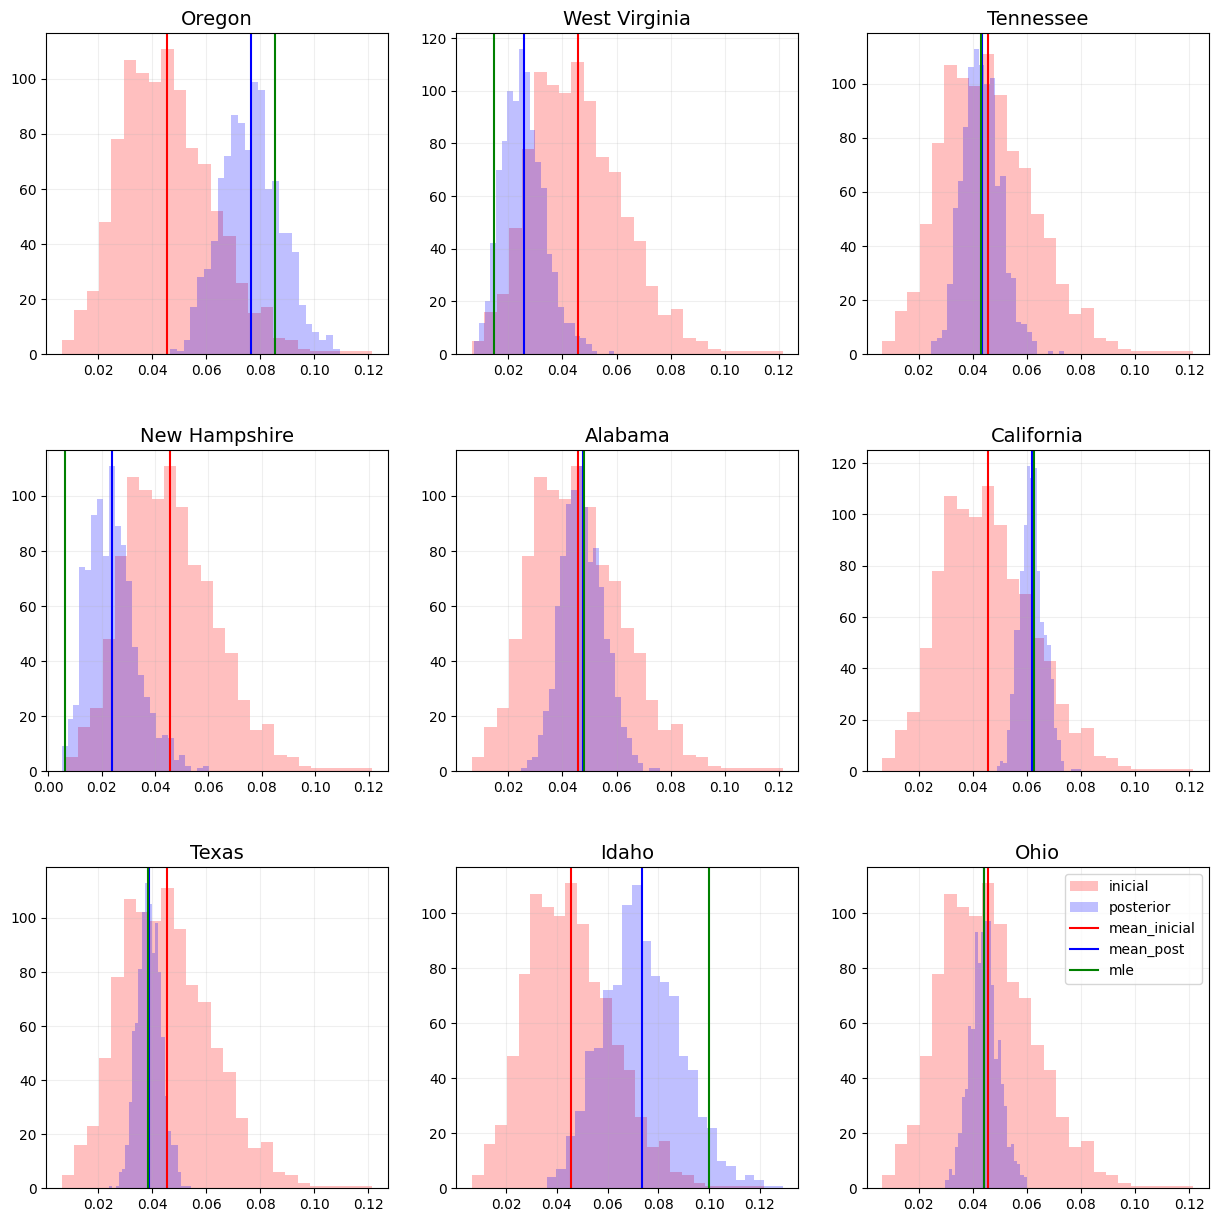
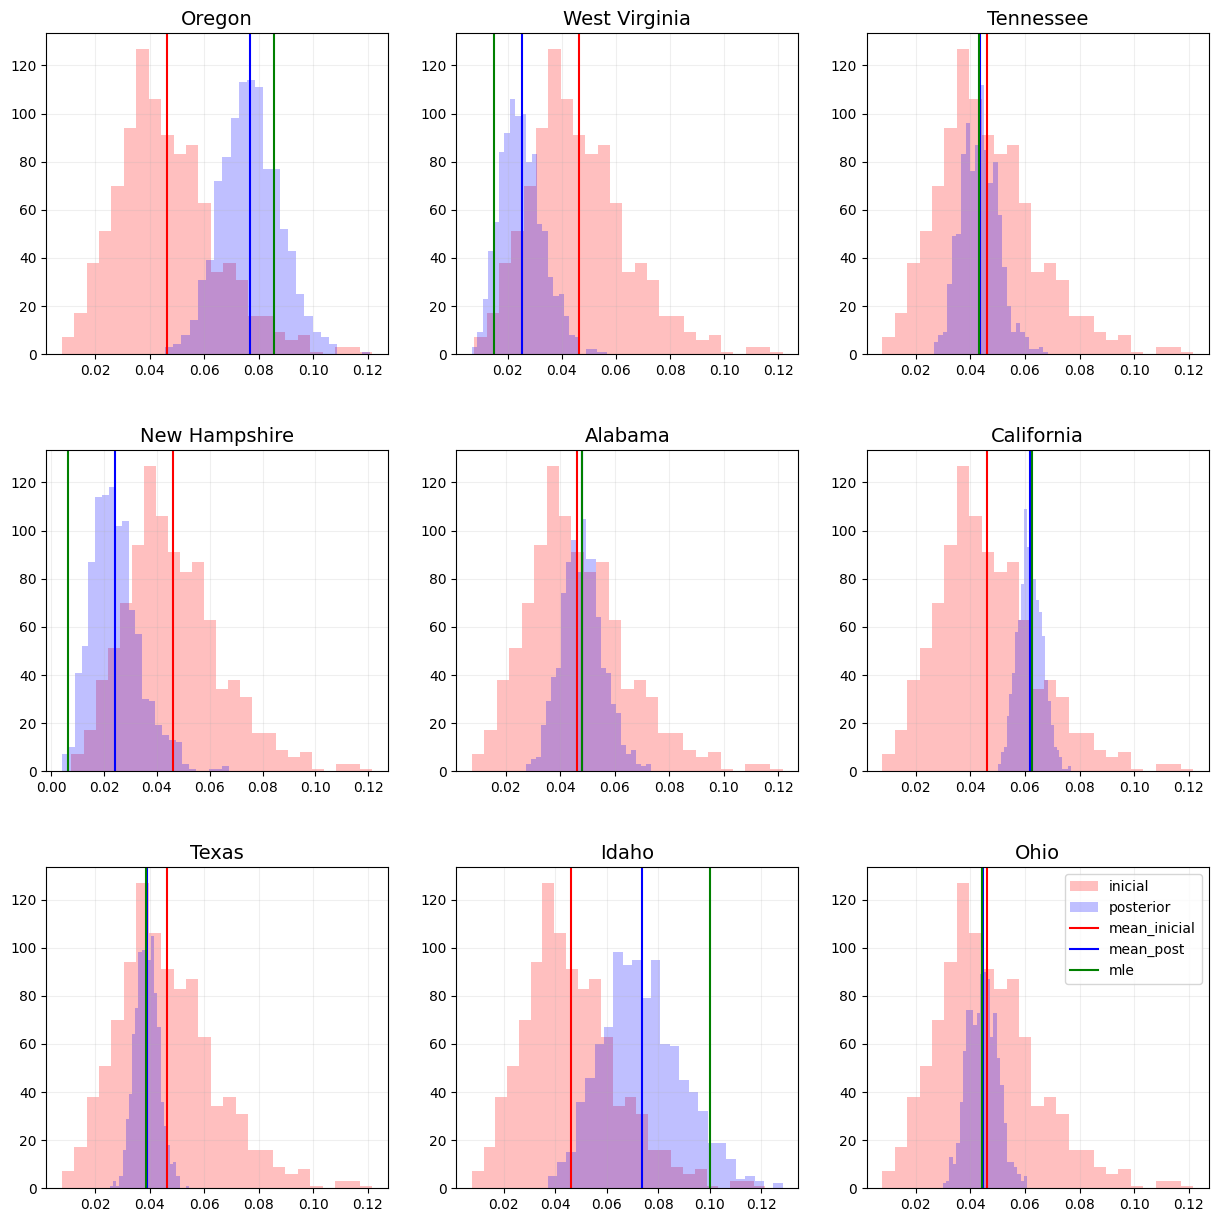
HTML render

diff --git a/bayes-first-steps.html b/bayes-first-steps.html
@@ -334,12 +334,15 @@ code span.wa { color: #60a0b0; font-weight: bold; font-style: italic; } /* Warni
 </div>
 </div>
 <div style="text-align: justify">
-<p>Antes de hablar con detalle de los aspectos interesantes de la visualización anterior, primero hay que aclarar que si bajo este enfoque existiera correlación entre ambas características, entonces se esperaría tener una tendicia creciente hacia arriba a la derecha, es decir, a mayor porcentaje de votos por Obama mayor porcentaje de personas <em>very liberal</em>. Esto, como lo hace evidente la gráfica, no sucede.</p>
+<p>Antes de hablar con detalle de los aspectos interesantes de la visualización anterior, primero hay que aclarar que si bajo este enfoque existiera correlación entre ambas características, entonces se esperaría tener una tendencia creciente hacia arriba a la derecha, es decir, a mayor porcentaje de votos por Obama mayor porcentaje de personas <em>very liberal</em>. Esto, como lo hace evidente la gráfica, no sucede.</p>
 <p>Dicho lo anterior, se pueden identificar claramente dos regiones tomando como referencia un <span class="math inline">\(50\%\)</span> de votos por Obama. Aproximadamente, desde este valor en adelante existe tendencia creciente en los votos que recibió el candidato, sin embargo, en los estados por debajo de esta referencia, la tendencia es contraria.</p>
 <p>Adicionalmente, también existen estados que rompen por completo las aparentes tendencias en dichas regiones. Esto se hace especialmente evidente en estados como Idaho, que presenta la mayor proporción de <em>very liberal</em> pero que en el resultado de las elecciones tuvo menos del <span class="math inline">\(37\%\)</span> de votantes por Obama; o como New Hampshire, que presenta la menor proporción de <em>very liberal</em> de todas, pero que en la elección tuvo casi el <span class="math inline">\(55\%\)</span> de votantes a favor del candidato</p>
 </div>
 <section id="enfoque-bayesiano" class="level2">
 <h2 class="anchored" data-anchor-id="enfoque-bayesiano">Enfoque Bayesiano</h2>
+<p>Habiendo hablado del enfoque frecuentista, es tiempo de centrarse en el mismo análisis pero desde un punto de vista bayesiano.</p>
+<p>Estima el mismo porcentaje usando inferencia bayesiana, en particular la familia conjugada binomial-beta. Deberás estimar la proporción de manera independiente para cada estado, sin embargo, utilizarás la misma inicial a lo largo de todos.</p>
+<p>Nota: Este proceso para obtener los parámetros de la incial es razonable para este ejercicio, sin embargo, un modelo jerárquico sería la manera de formalizar este acercamiento y se estudiará en próximas materias.</p>
 <div class="cell" data-execution_count="5">
 <details>
 <summary>Code</summary>
@@ -434,7 +437,7 @@ code span.wa { color: #60a0b0; font-weight: bold; font-style: italic; } /* Warni
 </ul>
 <p>Obtenemos el estimador de la posterior para todos los estados</p>
 </div>
-<div class="cell" data-execution_count="9">
+<div class="cell">
 <details>
 <summary>Code</summary>
 <div class="sourceCode cell-code" id="cb9"><pre class="sourceCode python code-with-copy"><code class="sourceCode python"><span id="cb9-1"><a href="#cb9-1" aria-hidden="true" tabindex="-1"></a><span class="co">#Se crea columna vacía en dataframe</span></span>
@@ -450,7 +453,7 @@ code span.wa { color: #60a0b0; font-weight: bold; font-style: italic; } /* Warni
 </details>
 </div>
 <p>Comparamos el desplazamiento del estimador MLE provocado por la distribucón inicial bajo un enfoque bayesiano</p>
-<div class="cell" data-execution_count="10">
+<div class="cell">
 <details>
 <summary>Code</summary>
 <div class="sourceCode cell-code" id="cb10"><pre class="sourceCode python code-with-copy"><code class="sourceCode python"><span id="cb10-1"><a href="#cb10-1" aria-hidden="true" tabindex="-1"></a>plt.figure(figsize<span class="op">=</span>plot_settings[<span class="st">'figsize'</span>])</span>
@@ -470,12 +473,9 @@ code span.wa { color: #60a0b0; font-weight: bold; font-style: italic; } /* Warni
 <span id="cb10-15"><a href="#cb10-15" aria-hidden="true" tabindex="-1"></a></span>
 <span id="cb10-16"><a href="#cb10-16" aria-hidden="true" tabindex="-1"></a>plt.show()</span></code><button title="Copy to Clipboard" class="code-copy-button"><i class="bi"></i></button></pre></div>
 </details>
-<div class="cell-output cell-output-display">
-<p><img src="bayes-first-steps_files/figure-html/cell-11-output-1.png" class="img-fluid"></p>
-</div>
 </div>
 <p>Nuevamente graficamos la proporción de votos que tuvo obama contra la proporción de <em>very liberal</em> por estado, en esta ocasión con los resultados del enfoque bayesiano.</p>
-<div class="cell" data-execution_count="11">
+<div class="cell">
 <details>
 <summary>Code</summary>
 <div class="sourceCode cell-code" id="cb11"><pre class="sourceCode python code-with-copy"><code class="sourceCode python"><span id="cb11-1"><a href="#cb11-1" aria-hidden="true" tabindex="-1"></a>plt.figure(figsize<span class="op">=</span>plot_settings[<span class="st">'figsize'</span>])</span>
@@ -490,9 +490,6 @@ code span.wa { color: #60a0b0; font-weight: bold; font-style: italic; } /* Warni
 <span id="cb11-10"><a href="#cb11-10" aria-hidden="true" tabindex="-1"></a></span>
 <span id="cb11-11"><a href="#cb11-11" aria-hidden="true" tabindex="-1"></a>plt.show()</span></code><button title="Copy to Clipboard" class="code-copy-button"><i class="bi"></i></button></pre></div>
 </details>
-<div class="cell-output cell-output-display">
-<p><img src="bayes-first-steps_files/figure-html/cell-12-output-1.png" class="img-fluid"></p>
-</div>
 </div>
 <ul>
 <li>Lo primero que notamos es que bajo este enfoque se reduce la dispersión de los puntos, manifestando un comportamiento relativamente más lineal que con el enfoque frecuentista.</li>
@@ -502,14 +499,14 @@ code span.wa { color: #60a0b0; font-weight: bold; font-style: italic; } /* Warni
 <section id="anexo-2" class="level2">
 <h2 class="anchored" data-anchor-id="anexo-2">Anexo 2</h2>
 <p>Utilizando el paquete de python <code>sympy</code> para cálculo simbólico, se obtuvieron las ecuaciones que resulven los parámetros <span class="math inline">\(a\)</span>, <span class="math inline">\(b\)</span> de una distribución conjugada beta-binomial dados los valores de <span class="math inline">\(\mu\)</span>, <span class="math inline">\(\sigma\)</span>.</p>
-<div class="cell" data-execution_count="12">
+<div class="cell">
 <details>
 <summary>Code</summary>
 <div class="sourceCode cell-code" id="cb12"><pre class="sourceCode python code-with-copy"><code class="sourceCode python"><span id="cb12-1"><a href="#cb12-1" aria-hidden="true" tabindex="-1"></a><span class="im">from</span> sympy <span class="im">import</span> symbols, Eq, solve</span>
 <span id="cb12-2"><a href="#cb12-2" aria-hidden="true" tabindex="-1"></a><span class="im">from</span> sympy.abc <span class="im">import</span> mu, sigma</span></code><button title="Copy to Clipboard" class="code-copy-button"><i class="bi"></i></button></pre></div>
 </details>
 </div>
-<div class="cell" data-execution_count="13">
+<div class="cell">
 <details>
 <summary>Code</summary>
 <div class="sourceCode cell-code" id="cb13"><pre class="sourceCode python code-with-copy"><code class="sourceCode python"><span id="cb13-1"><a href="#cb13-1" aria-hidden="true" tabindex="-1"></a>a, b, s2, m <span class="op">=</span> symbols(<span class="st">"a b sigma^2 mu"</span>)</span>
@@ -519,51 +516,31 @@ code span.wa { color: #60a0b0; font-weight: bold; font-style: italic; } /* Warni
 <span id="cb13-5"><a href="#cb13-5" aria-hidden="true" tabindex="-1"></a>solution <span class="op">=</span> solve((equation_1, equation_2), (a, b))</span></code><button title="Copy to Clipboard" class="code-copy-button"><i class="bi"></i></button></pre></div>
 </details>
 </div>
-<div class="cell" data-execution_count="14">
+<div class="cell">
 <details>
 <summary>Code</summary>
 <div class="sourceCode cell-code" id="cb14"><pre class="sourceCode python code-with-copy"><code class="sourceCode python"><span id="cb14-1"><a href="#cb14-1" aria-hidden="true" tabindex="-1"></a>equation_1</span></code><button title="Copy to Clipboard" class="code-copy-button"><i class="bi"></i></button></pre></div>
 </details>
-<div class="cell-output cell-output-display" data-execution_count="14">
-<p><span class="math inline">\(\displaystyle \frac{a}{a + b} = \mu\)</span></p>
 </div>
-</div>
-<div class="cell" data-execution_count="15">
+<div class="cell">
 <details>
 <summary>Code</summary>
 <div class="sourceCode cell-code" id="cb15"><pre class="sourceCode python code-with-copy"><code class="sourceCode python"><span id="cb15-1"><a href="#cb15-1" aria-hidden="true" tabindex="-1"></a>equation_2</span></code><button title="Copy to Clipboard" class="code-copy-button"><i class="bi"></i></button></pre></div>
 </details>
-<div class="cell-output cell-output-display" data-execution_count="15">
-<p><span class="math inline">\(\displaystyle \frac{a b}{\left(a + b\right)^{2} \left(a + b + 1\right)} = \sigma^{2}\)</span></p>
 </div>
-</div>
-<div class="cell" data-execution_count="16">
+<div class="cell">
 <details>
 <summary>Code</summary>
 <div class="sourceCode cell-code" id="cb16"><pre class="sourceCode python code-with-copy"><code class="sourceCode python"><span id="cb16-1"><a href="#cb16-1" aria-hidden="true" tabindex="-1"></a><span class="bu">print</span>(<span class="st">"Solución para el parámetro 'a':</span><span class="ch">\n</span><span class="st">"</span>)</span>
 <span id="cb16-2"><a href="#cb16-2" aria-hidden="true" tabindex="-1"></a>solution[<span class="dv">0</span>][<span class="dv">0</span>]</span></code><button title="Copy to Clipboard" class="code-copy-button"><i class="bi"></i></button></pre></div>
 </details>
-<div class="cell-output cell-output-stdout">
-<pre><code>Solución para el parámetro 'a':
-</code></pre>
 </div>
-<div class="cell-output cell-output-display" data-execution_count="16">
-<p><span class="math inline">\(\displaystyle \frac{\mu \left(- \mu^{2} + \mu - \sigma^{2}\right)}{\sigma^{2}}\)</span></p>
-</div>
-</div>
-<div class="cell" data-execution_count="17">
+<div class="cell">
 <details>
 <summary>Code</summary>
-<div class="sourceCode cell-code" id="cb18"><pre class="sourceCode python code-with-copy"><code class="sourceCode python"><span id="cb18-1"><a href="#cb18-1" aria-hidden="true" tabindex="-1"></a><span class="bu">print</span>(<span class="st">"Solución para el parámetro 'b':</span><span class="ch">\n</span><span class="st">"</span>)</span>
-<span id="cb18-2"><a href="#cb18-2" aria-hidden="true" tabindex="-1"></a>solution[<span class="dv">0</span>][<span class="dv">1</span>]</span></code><button title="Copy to Clipboard" class="code-copy-button"><i class="bi"></i></button></pre></div>
+<div class="sourceCode cell-code" id="cb17"><pre class="sourceCode python code-with-copy"><code class="sourceCode python"><span id="cb17-1"><a href="#cb17-1" aria-hidden="true" tabindex="-1"></a><span class="bu">print</span>(<span class="st">"Solución para el parámetro 'b':</span><span class="ch">\n</span><span class="st">"</span>)</span>
+<span id="cb17-2"><a href="#cb17-2" aria-hidden="true" tabindex="-1"></a>solution[<span class="dv">0</span>][<span class="dv">1</span>]</span></code><button title="Copy to Clipboard" class="code-copy-button"><i class="bi"></i></button></pre></div>
 </details>
-<div class="cell-output cell-output-stdout">
-<pre><code>Solución para el parámetro 'b':
-</code></pre>
-</div>
-<div class="cell-output cell-output-display" data-execution_count="17">
-<p><span class="math inline">\(\displaystyle \frac{\left(\mu - 1\right) \left(\mu^{2} - \mu + \sigma^{2}\right)}{\sigma^{2}}\)</span></p>
-</div>
 </div>
 <p>Las expresiones anteriores se puegen programar directamente en una función de python</p>
 <hr>
